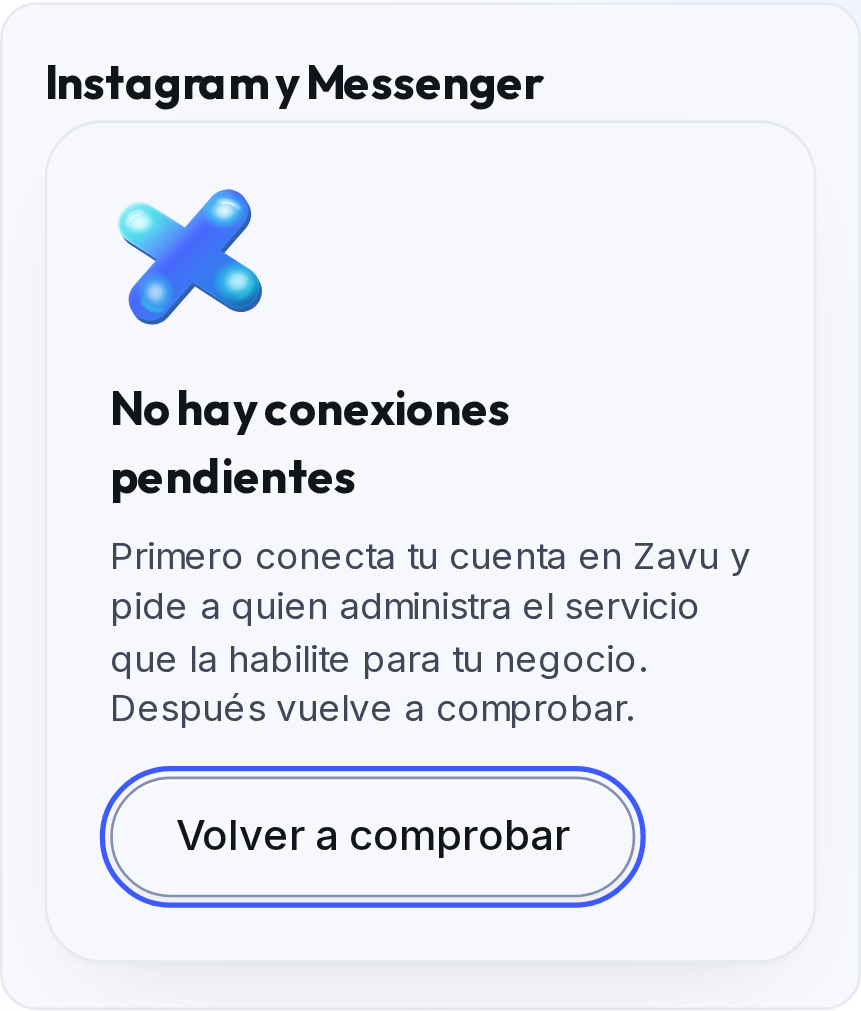
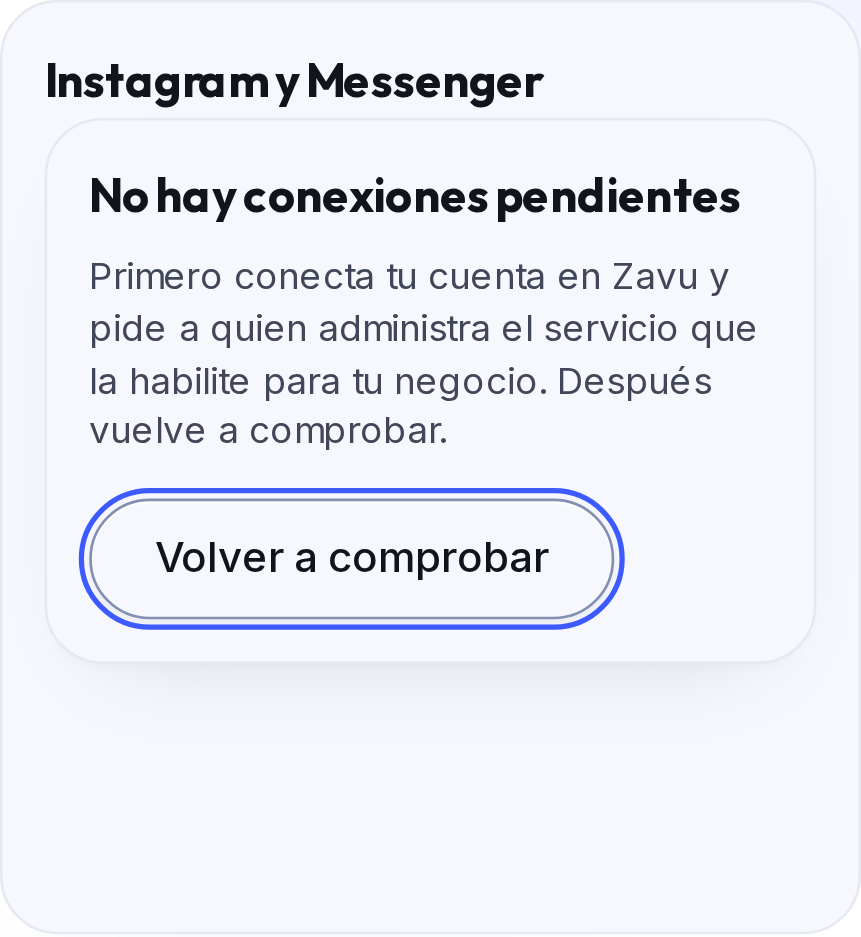
fix(ui): un piso propio para el panel de canales Meta a 768 px
La guarda de esqueletos medidos cayó en CI con el cambio de navegación: a 768
px el panel de «Conectar Instagram y Messenger» medía 240 cargando y 249,97
vacío. El tramo ≥ 640 suponía que la altura no dependía del ancho, y dejó de
ser cierto.

La causa, medida: al renombrar el grupo «Configuración» → «Ajustes», el
rótulo de la barra superior pasó de 95 a 50 px y arrastró el min-content de
todo el main. El panel bajó de 566 a 510 px de ancho y el vacío pasó de 2 a 3
líneas. Que el ancho del contenido dependa de esa palabra es un defecto de
layout aparte: #1343.

Acá, el arreglo local: un tercer tramo ≥ 768 con piso de 256. Los cuatro
estados quedan iguales por construcción, envuelva lo que envuelva el texto;
el aire de más en escritorio son 16 px.

Las capturas y medidas de docs/evidencias/74 se regeneran: las anteriores eran
de un piso de 384 que ya no estaba en el código.

e2e: canales-meta-74, esqueletos-medidos, la-prosa-tiene-techo y
la-navegacion-dice-la-verdad, 29/29.

Refs #1324

diff --git a/apps/web/components/conectar-canales-meta.tsx b/apps/web/components/conectar-canales-meta.tsx
@@ -72,7 +72,13 @@ function Conexiones({ onConectado }: { onConectado: (cuenta: Cuenta) => void }) 
    * el texto, la guarda se pone roja en vez de que el panel vuelva a saltar
    * en silencio.
    */
-  return <section className="mt-6 min-h-[22.25rem] rounded-tarjeta border border-line bg-raised p-4 sm:min-h-60" aria-label="Conectar Instagram y Messenger" aria-busy={enCurso !== null || carga.estado === 'cargando'}>
+  // Tercer tramo, ≥ 768 → 256 (#1324). El tramo ≥ 640 suponía que la altura
+  // no dependía del ancho, y dejó de ser cierto: a 768 el panel mide 510 px de
+  // ancho —el ancho del contenido lo arrastra el rótulo de la barra superior,
+  // #1343—, el vacío envuelve en 3 líneas y mide 249,97. Con un piso de 256
+  // los cuatro estados quedan iguales por construcción, envuelva lo que
+  // envuelva, y el aire de más en escritorio son 16 px.
+  return <section className="mt-6 min-h-[22.25rem] rounded-tarjeta border border-line bg-raised p-4 sm:min-h-60 md:min-h-64" aria-label="Conectar Instagram y Messenger" aria-busy={enCurso !== null || carga.estado === 'cargando'}>
     <h2 className="text-lg font-semibold text-ink">Instagram y Messenger</h2>
     {carga.estado === 'cargando' || carga.estado === 'nada-que-pedir' ? <div className="mt-4 space-y-3" role="status" aria-label="Buscando conexiones"><Skeleton className="h-5 w-3/4" /><Skeleton className="h-20 w-full" /></div> : null}
     <AvisoDeCarga carga={carga} onReintentar={reintentar} sinPermiso="Necesitas permiso para administrar canales y activar estas conexiones." />
